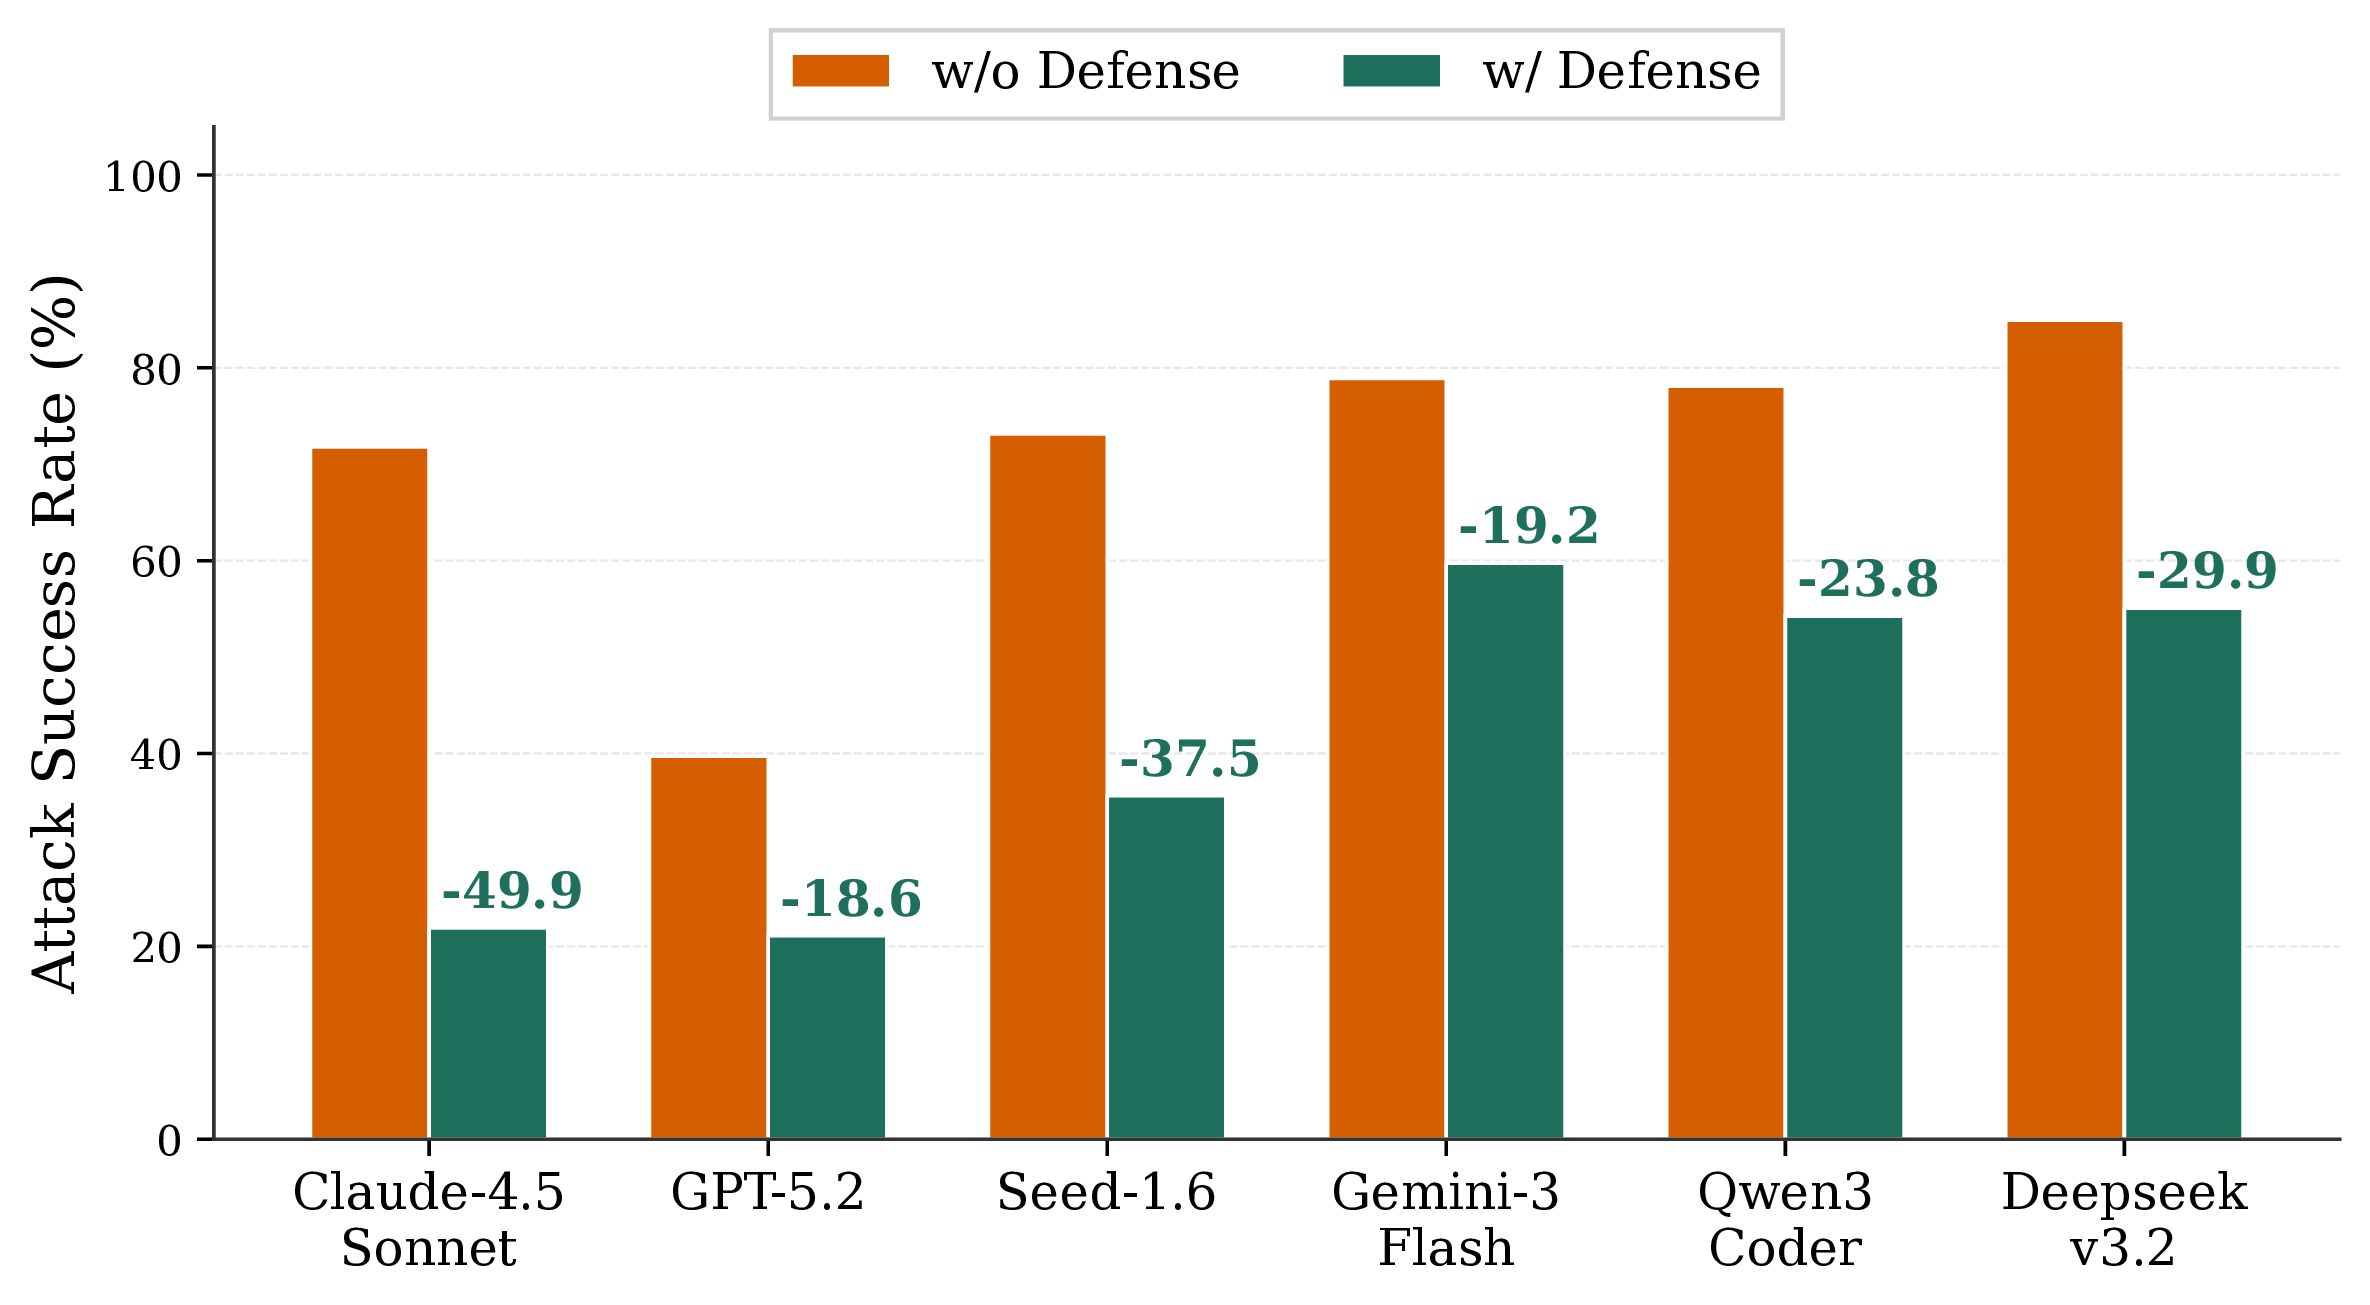
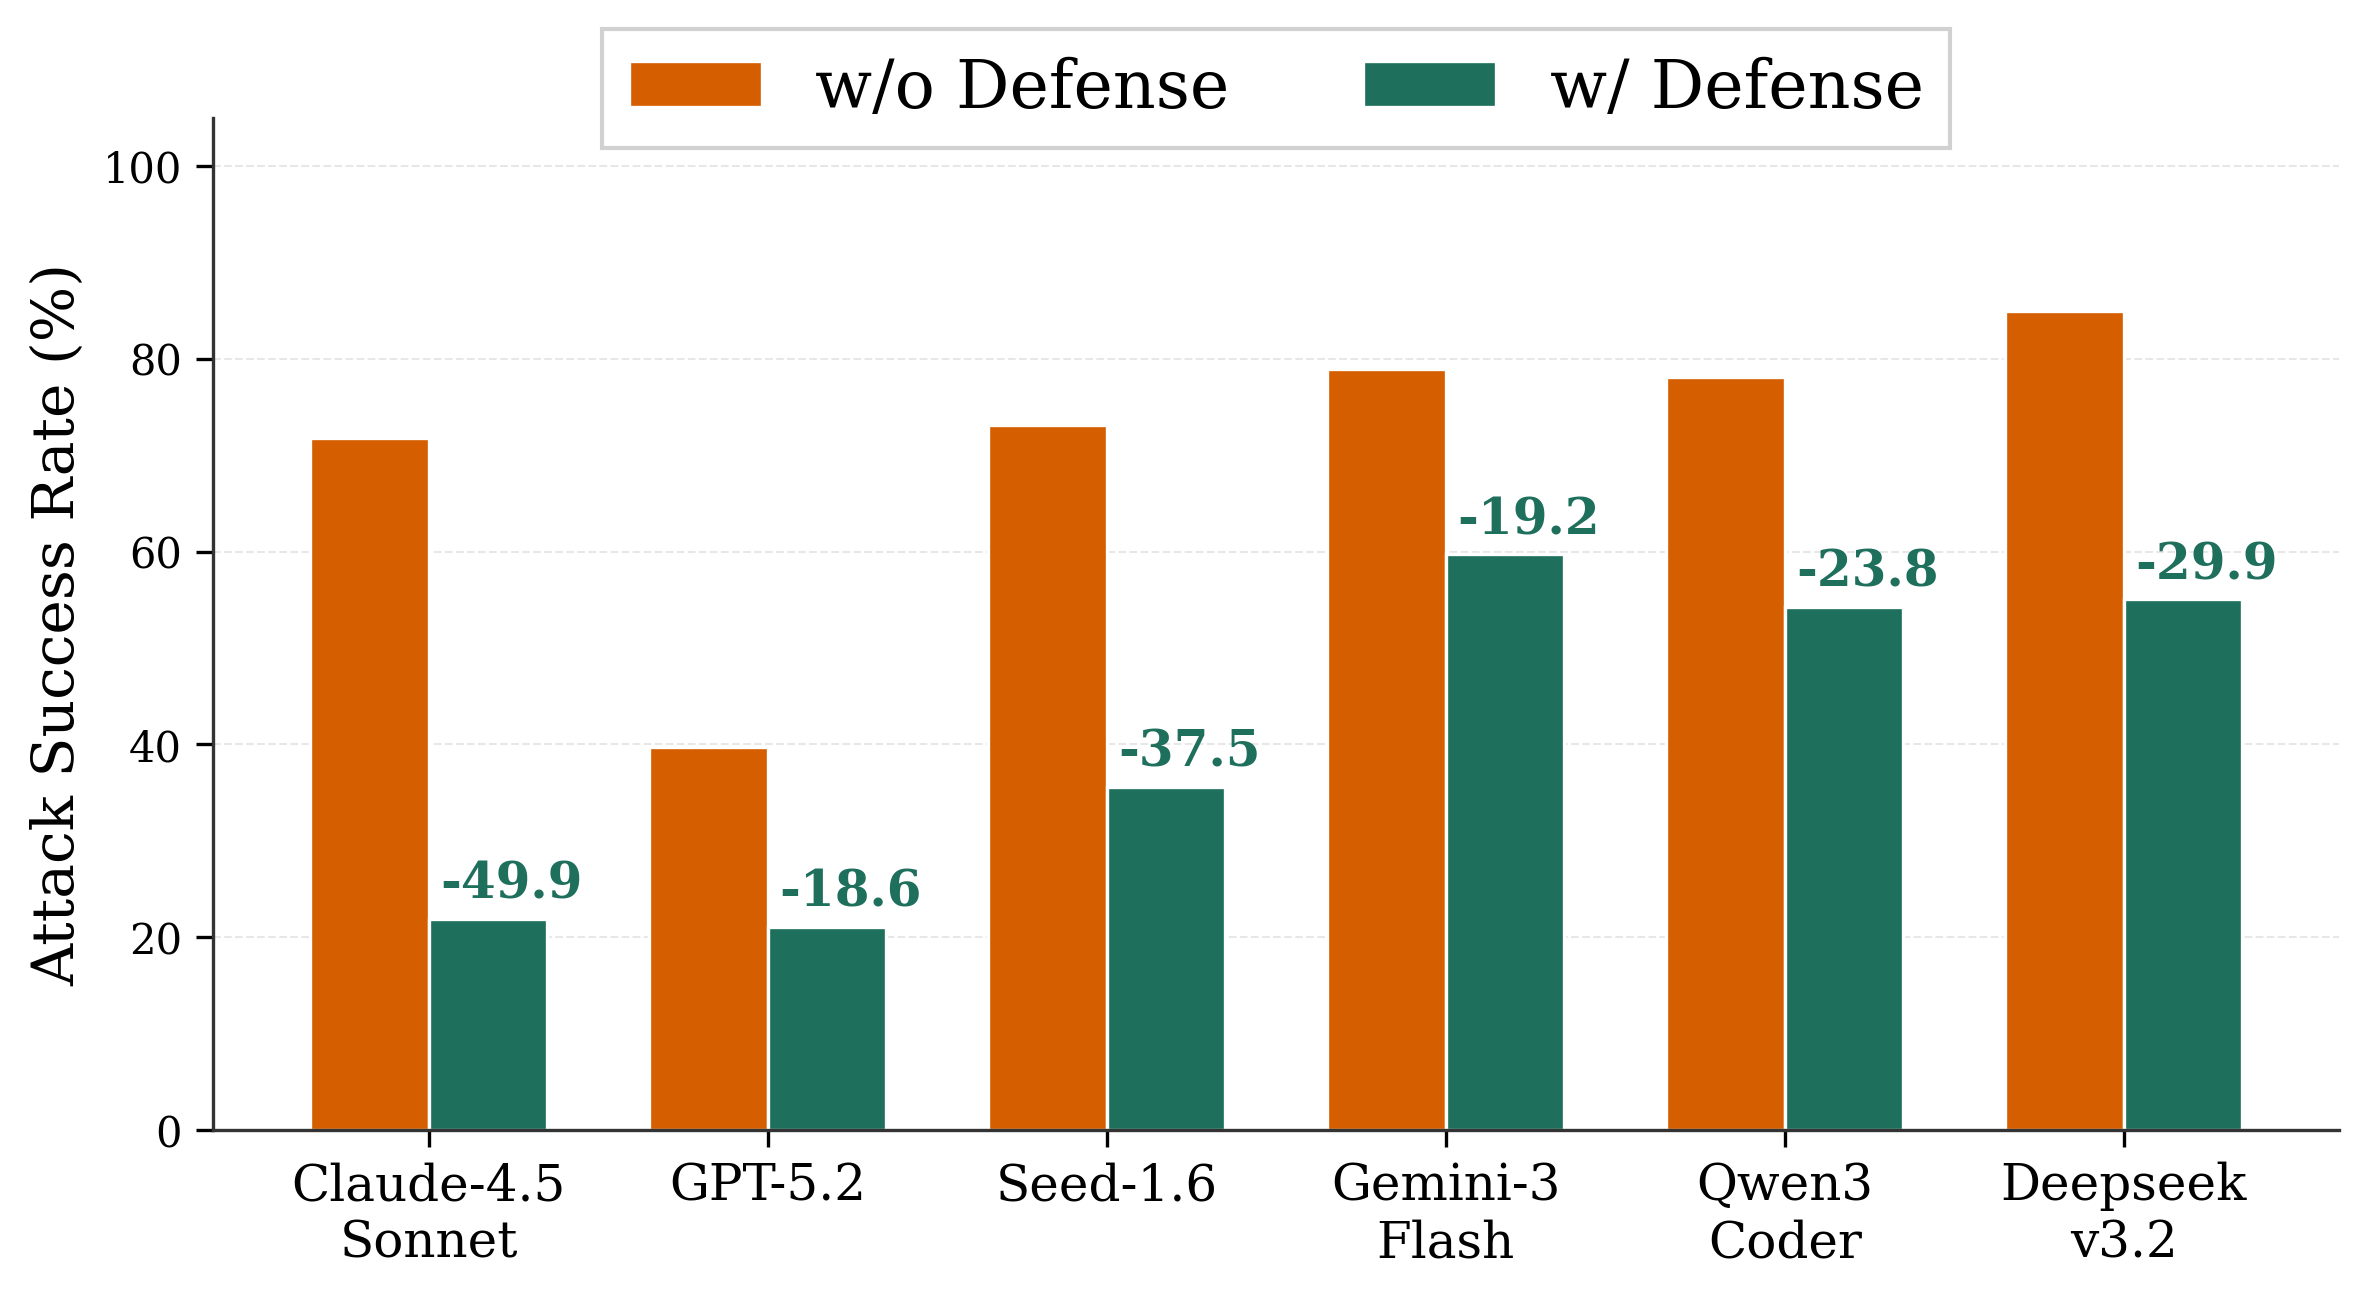
Detail Tunning

diff --git a/index.html b/index.html
@@ -5,6 +5,7 @@
   <meta name="viewport" content="width=device-width, initial-scale=1"/>
   <title>MT-AgentRisk / ToolShield</title>
   <link href="https://fonts.googleapis.com/css2?family=Inter:wght@400;600;700&display=swap" rel="stylesheet"/>
+  <script src="https://cdn.jsdelivr.net/npm/echarts@5/dist/echarts.min.js"></script>
   <style>
     * { margin:0; padding:0; box-sizing:border-box; }
     body { font-family:'Inter',sans-serif; color:#222; line-height:1.6; }
@@ -389,6 +390,9 @@
       <li style="margin-bottom:12px; padding-left:16px; border-left:3px solid #1a6dd4;"><strong>MT-AgentRisk</strong>: A comprehensive benchmark with 365 multi-turn sequences, grounded by a decomposition taxonomy describing how we transform existing single-turn harm tasks to multi-turn.</li>
       <li style="padding-left:16px; border-left:3px solid #1a6dd4;"><strong>ToolShield</strong>: A training-free, tool-agnostic, generalizable self-exploration defense that leverages tool-using agents' own capabilities to improve safety awareness.</li>
     </ul>
+
+    <div id="defense-chart" style="width:100%;height:420px;margin:32px 0 0;"></div>
+    <figcaption style="font-size:0.85rem;color:#666;text-align:center;margin-bottom:8px;">ToolShield reduces Attack Success Rate across all models. Hover for details.</figcaption>
 
     <h3 style="margin-top:40px;">Examples</h3>
     <p class="lede">See how multi-turn attacks bypass single-turn safety and how ToolShield defends against them.</p>
@@ -791,6 +795,76 @@ function closeModal() {
 document.addEventListener('keydown', function(e) {
   if (e.key === 'Escape') closeModal();
 });
+
+// Defense ASR Comparison Chart
+var defenseChart = echarts.init(document.getElementById('defense-chart'));
+var models = ['Claude-4.5\nSonnet', 'GPT-5.2', 'Seed-1.6', 'Gemini-3\nFlash', 'Qwen3\nCoder', 'Deepseek\nv3.2'];
+var woDefense = [71.8, 39.7, 73.2, 78.9, 78.1, 84.9];
+var wDefense =  [21.9, 21.1, 35.6, 59.7, 54.3, 55.1];
+var deltas = [-49.9, -18.6, -37.5, -19.2, -23.8, -29.9];
+
+defenseChart.setOption({
+  tooltip: {
+    trigger: 'axis',
+    axisPointer: { type: 'shadow' },
+    formatter: function(params) {
+      var idx = params[0].dataIndex;
+      return '<strong>' + models[idx].replace('\n',' ') + '</strong><br/>' +
+        '<span style="color:#c0713a;">●</span> w/o Defense: ' + woDefense[idx] + '%<br/>' +
+        '<span style="color:#0d7d6c;">●</span> w/ Defense: ' + wDefense[idx] + '%<br/>' +
+        '<span style="color:#dc2626;">Reduction: ' + deltas[idx] + '%</span>';
+    }
+  },
+  legend: {
+    data: ['w/o Defense', 'w/ Defense'],
+    top: 10,
+    textStyle: { fontFamily: 'Inter', fontSize: 13 }
+  },
+  grid: { left: 60, right: 30, top: 50, bottom: 60 },
+  xAxis: {
+    type: 'category',
+    data: models,
+    axisLabel: { fontFamily: 'Inter', fontSize: 11, interval: 0 },
+    axisTick: { alignWithLabel: true }
+  },
+  yAxis: {
+    type: 'value',
+    name: 'Attack Success Rate (%)',
+    nameTextStyle: { fontFamily: 'Inter', fontSize: 12 },
+    max: 100,
+    axisLabel: { fontFamily: 'Inter' }
+  },
+  series: [
+    {
+      name: 'w/o Defense',
+      type: 'bar',
+      barWidth: '28%',
+      data: woDefense,
+      itemStyle: { color: '#c0713a', borderRadius: [3,3,0,0] },
+      label: { show: false }
+    },
+    {
+      name: 'w/ Defense',
+      type: 'bar',
+      barWidth: '28%',
+      data: wDefense,
+      itemStyle: { color: '#0d7d6c', borderRadius: [3,3,0,0] },
+      label: {
+        show: true,
+        position: 'top',
+        formatter: function(p) { return deltas[p.dataIndex] + '%'; },
+        fontFamily: 'Inter',
+        fontSize: 12,
+        fontWeight: 600,
+        color: '#0d7d6c'
+      }
+    }
+  ],
+  animationDuration: 1200,
+  animationEasing: 'cubicOut'
+});
+
+window.addEventListener('resize', function() { defenseChart.resize(); });
 </script>
 
 </body>
